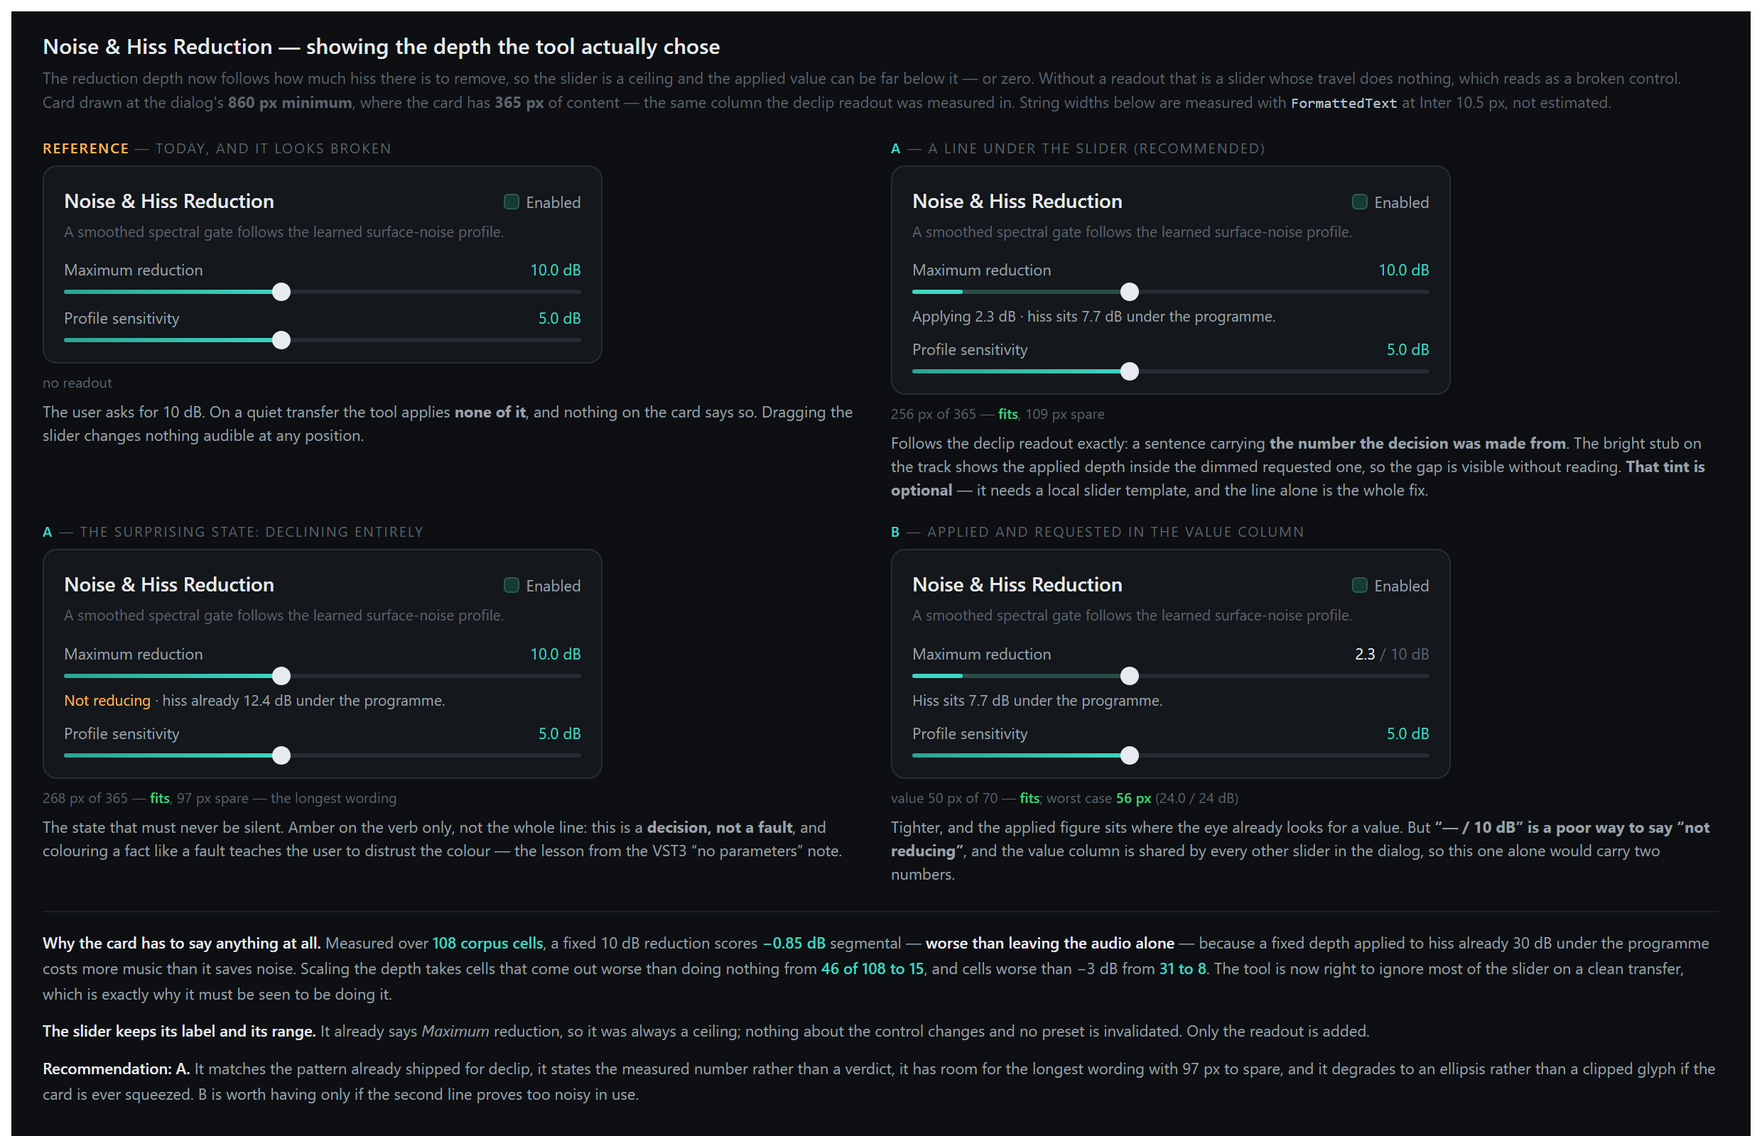
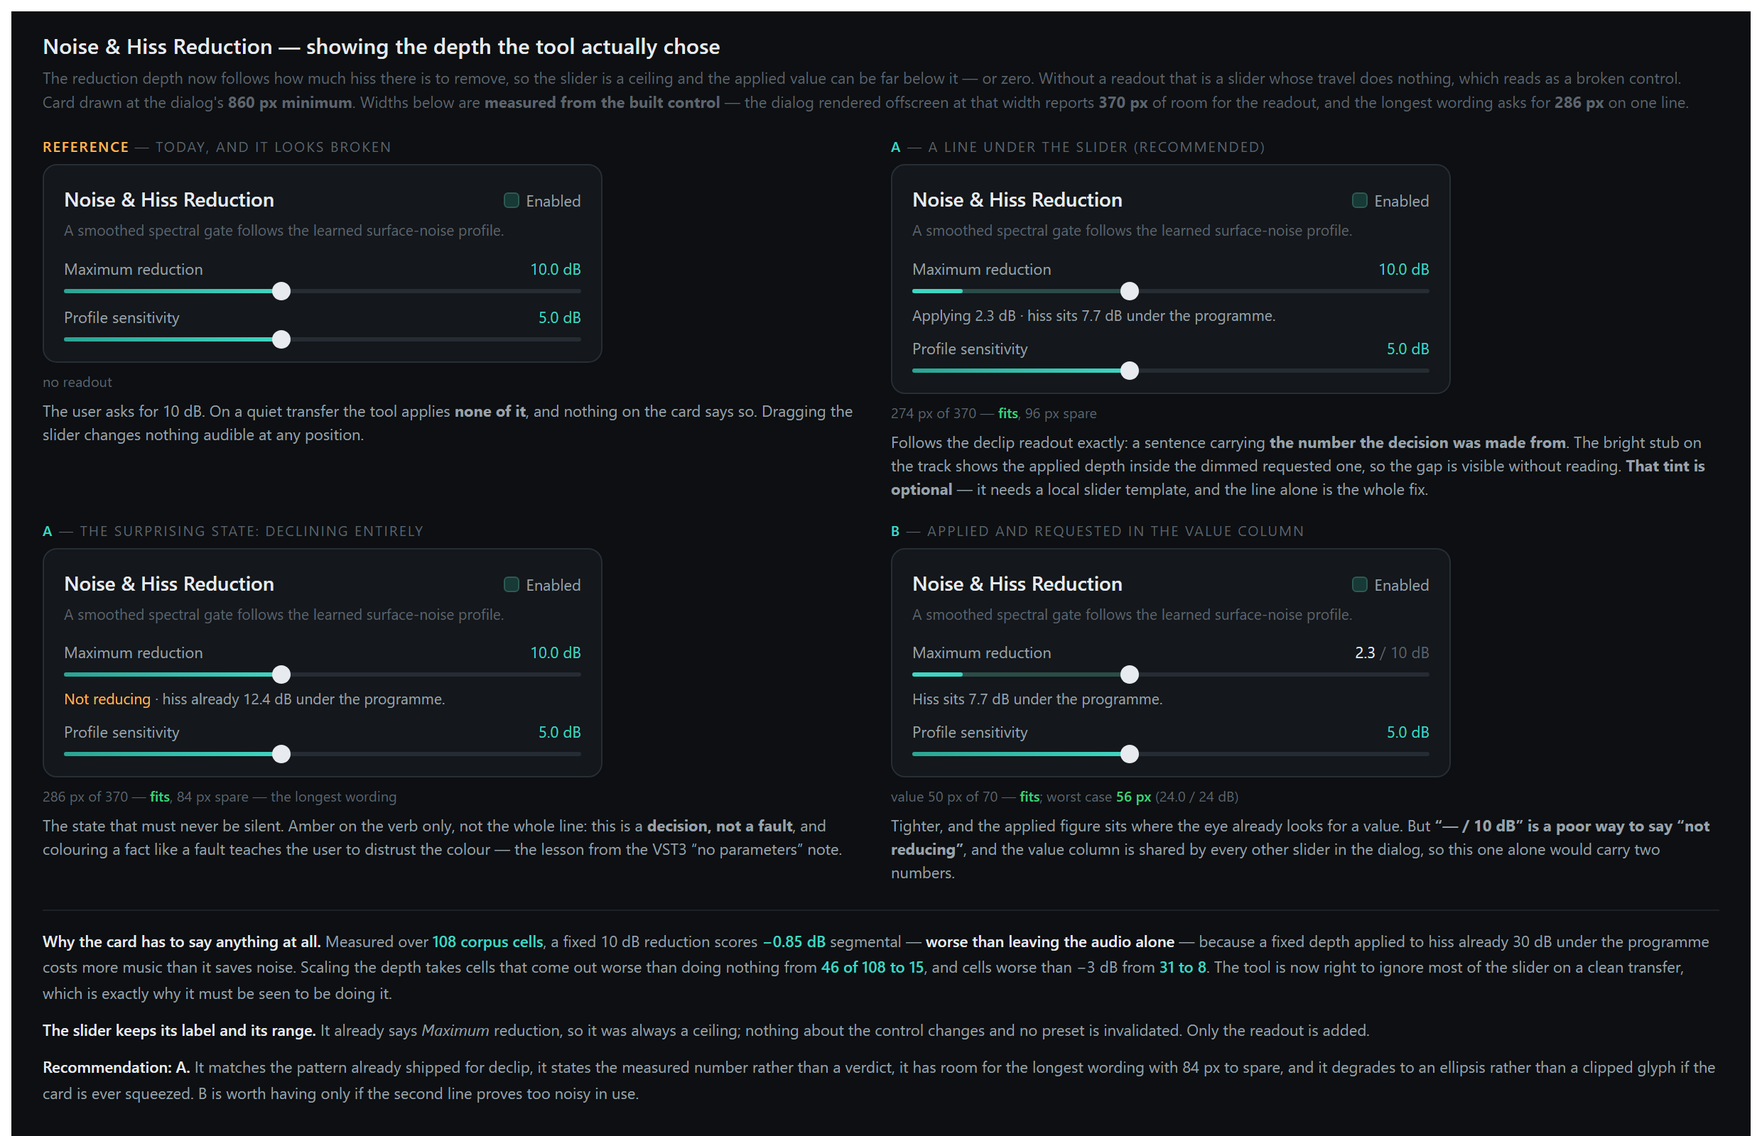
Workbench noise card: show the depth the tool actually chose (option A)
The reduction depth follows how much hiss there is to remove, so the
slider is a ceiling and the applied value can be far below it, or zero.
Without a readout that is a slider whose travel does nothing, which is
indistinguishable from a broken control.

A line under the Maximum reduction slider, following the declip readout
exactly -- a sentence carrying the number the decision was made from:

  Applying 2.3 dB · hiss sits 7.7 dB under the programme.
  Not reducing · hiss already 12.4 dB under the programme.
  Not reducing · the maximum is set to zero.
  Run analysis to see the depth. / Learn a noise profile to reduce hiss.

Amber on the verb alone, never the measured half. Declining is a
decision, not a fault, and colouring a fact like a fault is what the VST3
scanner note records as teaching users to distrust the colour.

DescribeNoiseDepth is pure, so the wording is unit-tested without a
window, the same way DescribeChoices is. The estimate is measured once
when the analysis lands rather than on every drag -- it walks the side.

Rendered before claiming the layout works. NoiseDepthRenderProbe builds
the real dialog at its 860 px minimum and measures the line in place:
370 px of room, 286 px wanted, one line, 84 px spare. The mockup had
quoted 365 and 268 from FormattedText; glyph metrics are not the built
control, so the mockup now carries the rendered figures.

That render also found a defect that is not mine and is left alone: at
[…]

diff --git a/docs/design/noise_depth_readout.html b/docs/design/noise_depth_readout.html
@@ -98,9 +98,9 @@
       The reduction depth now follows how much hiss there is to remove, so the slider is a ceiling
       and the applied value can be far below it &mdash; or zero. Without a readout that is a slider
       whose travel does nothing, which reads as a broken control.<br>
-      Card drawn at the dialog's <b>860&nbsp;px minimum</b>, where the card has <b>365&nbsp;px</b> of
-      content &mdash; the same column the declip readout was measured in. String widths below are
-      measured with <code>FormattedText</code> at Inter&nbsp;10.5&nbsp;px, not estimated.
+      Card drawn at the dialog's <b>860&nbsp;px minimum</b>. Widths below are <b>measured from the
+      built control</b> &mdash; the dialog rendered offscreen at that width reports <b>370&nbsp;px</b>
+      of room for the readout, and the longest wording asks for <b>286&nbsp;px</b> on one line.
     </p>
 
     <div class="wl-grid">
@@ -145,7 +145,7 @@
           <div class="wl-row"><span class="t">Profile sensitivity</span><span class="v">5.0 dB</span></div>
           <div class="wl-track"><i style="width:42%"></i><b style="left:42%"></b></div>
         </div>
-        <div class="wl-px">256 px of 365 &mdash; <b>fits</b>, 109 px spare</div>
+        <div class="wl-px">274 px of 370 &mdash; <b>fits</b>, 96 px spare</div>
         <div class="wl-why">
           Follows the declip readout exactly: a sentence carrying <b>the number the decision was made
           from</b>. The bright stub on the track shows the applied depth inside the
@@ -172,7 +172,7 @@
           <div class="wl-row"><span class="t">Profile sensitivity</span><span class="v">5.0 dB</span></div>
           <div class="wl-track"><i style="width:42%"></i><b style="left:42%"></b></div>
         </div>
-        <div class="wl-px">268 px of 365 &mdash; <b>fits</b>, 97 px spare &mdash; the longest wording</div>
+        <div class="wl-px">286 px of 370 &mdash; <b>fits</b>, 84 px spare &mdash; the longest wording</div>
         <div class="wl-why">
           The state that must never be silent. Amber on the verb only, not the whole line: this is a
           <b>decision, not a fault</b>, and colouring a fact like a fault teaches the user to distrust
@@ -230,7 +230,7 @@
       </p>
       <p>
         <b>Recommendation: A.</b> It matches the pattern already shipped for declip, it states the
-        measured number rather than a verdict, it has room for the longest wording with 97&nbsp;px to
+        measured number rather than a verdict, it has room for the longest wording with 84&nbsp;px to
         spare, and it degrades to an ellipsis rather than a clipped glyph if the card is ever
         squeezed. B is worth having only if the second line proves too noisy in use.
       </p>

diff --git a/src/WaveLab/Views/RestorationWorkbenchDialog.xaml b/src/WaveLab/Views/RestorationWorkbenchDialog.xaml
@@ -1,4 +1,4 @@
-<Window x:Class="WaveLab.Views.RestorationWorkbenchDialog"
+<Window x:Class="WaveLab.Views.RestorationWorkbenchDialog"
         xmlns="http://schemas.microsoft.com/winfx/2006/xaml/presentation"
         xmlns:x="http://schemas.microsoft.com/winfx/2006/xaml"
         Title="Vinyl Restoration" Width="960" Height="760" MinWidth="860" MinHeight="680"
@@ -204,6 +204,10 @@
                                 </Grid>
                                 <Slider x:Name="noiseReduction" Minimum="0" Maximum="24" Value="10"
                                         ValueChanged="OnParameterChanged"/>
+                                <TextBlock x:Name="noiseDepthText" Margin="0,8,0,0" FontSize="10.5"
+                                           Foreground="{StaticResource Muted}" TextTrimming="CharacterEllipsis">
+                                    <Run x:Name="noiseDepthLead"/><Run x:Name="noiseDepthDetail"/>
+                                </TextBlock>
                                 <Grid Margin="0,9,0,0">
                                     <Grid.ColumnDefinitions><ColumnDefinition Width="*"/><ColumnDefinition Width="70"/></Grid.ColumnDefinitions>
                                     <TextBlock Text="Profile sensitivity" Foreground="{StaticResource Muted}"/>

diff --git a/src/WaveLab/Views/RestorationWorkbenchDialog.xaml.cs b/src/WaveLab/Views/RestorationWorkbenchDialog.xaml.cs
@@ -3,6 +3,7 @@ using System.Windows;
 using System.Windows.Controls;
 using System.Windows.Controls.Primitives;
 using System.Windows.Input;
+using System.Windows.Media;
 using System.Windows.Threading;
 using WaveLab.Audio;
 using WaveLab.Audio.Dsp;
@@ -246,6 +247,7 @@ public partial class RestorationWorkbenchDialog : Window
             if (!IsCurrent(operation)) return;
             _source = prepared.Source;
             _noiseProfile = prepared.Noise.Profile;
+            _noiseToProgrammeDb = Restoration.EstimateNoiseToProgrammeDb(prepared.Source, _sampleRate);
             _clickAnalysis = prepared.Clicks;
             _clippingAnalysis = prepared.Clipping;
             _analyzedClickSensitivity = prepared.Recommendations.ClickSensitivity;
@@ -886,6 +888,85 @@ public partial class RestorationWorkbenchDialog : Window
             choices.Select(c => $"Channel {c.Channel + 1}: {MethodName(c)} — {FullDetail(c)}"));
     }
 
+
+    // ── the noise depth readout ──────────────────────────────────
+
+    /// <summary>How far the programme sits above its own floor, cached from the analysed audio.</summary>
+    /// <remarks>
+    /// The estimate depends on the audio and not on any control, so it is measured once when the
+    /// analysis lands rather than on every drag of a slider - it walks the whole side.
+    /// </remarks>
+    private double? _noiseToProgrammeDb;
+
+    /// <summary>The two halves of the readout line, so the verb can be coloured on its own.</summary>
+    /// <param name="Lead">Applied depth, or the reason nothing is being applied.</param>
+    /// <param name="Detail">The measured number the decision was made from.</param>
+    /// <param name="Declining">Whether the tool is about to leave the audio alone.</param>
+    internal readonly record struct NoiseDepthLine(string Lead, string Detail, bool Declining)
+    {
+        public override string ToString() =>
+            Detail.Length == 0 ? Lead : Lead.Length == 0 ? Detail : $"{Lead} \u00b7 {Detail}";
+    }
+
+    /// <summary>
+    /// Says how much reduction will actually be applied, and the number that decided it.
+    /// </summary>
+    /// <remarks>
+    /// <para>
+    /// <b>Without this the slider is a control whose travel does nothing.</b> The depth follows how
+    /// much hiss there is to remove, so on a clean transfer the tool is right to ignore most of the
+    /// slider - measured, a fixed depth is worse than leaving the audio alone on 46 of 108 corpus
+    /// cells and scaling it takes that to 15. A tool that is right to do nothing still has to be
+    /// seen doing it, which is the same argument as the declip readout above.
+    /// </para>
+    /// <para>
+    /// Pure, so the wording is unit-tested without a window - the declip readout is written the same
+    /// way and for the same reason.
+    /// </para>
+    /// </remarks>
+    internal static NoiseDepthLine DescribeNoiseDepth(bool analysed, bool hasProfile,
+        double requestedDb, double appliedDb, double estimateDb)
+    {
+        if (!analysed) return new NoiseDepthLine("Run analysis to see the depth.", "", false);
+        if (!hasProfile) return new NoiseDepthLine("Learn a noise profile to reduce hiss.", "", false);
+        if (requestedDb <= 0)
+            return new NoiseDepthLine("Not reducing", "the maximum is set to zero.", true);
+
+        string measured = $"hiss {(appliedDb <= 0 ? "already " : "sits ")}{estimateDb:0.0} dB under the programme.";
+        return appliedDb <= 0
+            ? new NoiseDepthLine("Not reducing", measured, true)
+            : new NoiseDepthLine($"Applying {appliedDb:0.0} dB", measured, false);
+    }
+
+    private void UpdateNoiseDepthReadout()
+    {
+        if (noiseDepthText == null) return;
+
+        bool analysed = _source != null && _noiseToProgrammeDb.HasValue;
+        bool hasProfile = _noiseProfile is { Length: > 0 };
+        double estimate = _noiseToProgrammeDb ?? 0;
+        double requested = noiseReduction.Value;
+        double applied = analysed && hasProfile
+            ? Restoration.SuggestReductionDepthDb(_source!, _sampleRate, requested)
+            : 0;
+
+        NoiseDepthLine line = DescribeNoiseDepth(analysed, hasProfile, requested, applied, estimate);
+        noiseDepthLead.Text = line.Lead;
+        noiseDepthDetail.Text = line.Detail.Length == 0 ? "" : $" \u00b7 {line.Detail}";
+
+        // Amber on the verb alone. Declining is a decision, not a fault, and colouring a whole line
+        // like a warning is what the VST3 scanner note records as teaching users to distrust the
+        // colour - so the measured half stays in the ordinary muted grey.
+        noiseDepthLead.Foreground = line.Declining
+            ? (Brush)FindResource("Amber")
+            : (Brush)FindResource("Muted");
+        noiseDepthText.ToolTip = analysed && hasProfile
+            ? $"The slider is a ceiling. Measured, a fixed depth applied to hiss already far under "
+              + $"the programme costs more music than it saves noise, so the depth follows the "
+              + $"programme-to-floor ratio \u2014 here {estimate:0.0} dB."
+            : null;
+    }
+
     private static string MethodName(DeclipChannelChoice choice) =>
         choice.Method == DeclipMethod.Sparse ? "sparse" : "peaks";
 
@@ -1123,6 +1204,7 @@ public partial class RestorationWorkbenchDialog : Window
         humHarmonicsText.Text = $"{humHarmonics.Value:0}";
         humQText.Text = $"Q {humQ.Value:0}";
         mixText.Text = $"{globalMix.Value:0}% restored";
+        UpdateNoiseDepthReadout();
     }
 
     private void QueueParameterRefresh(bool shortDelay = false)

diff --git a/tests/WaveLab.Tests/NoiseDepthReadoutTests.cs b/tests/WaveLab.Tests/NoiseDepthReadoutTests.cs
@@ -1,0 +1,105 @@
+using WaveLab.Views;
+using Xunit;
+using Xunit.Abstractions;
+
+namespace WaveLab.Tests;
+
+/// <summary>
+/// The wording of the noise card's depth readout, which is a pure function so it needs no window.
+/// </summary>
+/// <remarks>
+/// <b>The line exists because the slider is a ceiling and the applied depth can be far below it, or
+/// zero.</b> Measured over 108 corpus cells a fixed 10 dB reduction scores −0.85 dB segmental —
+/// worse than leaving the audio alone — so scaling the depth is right, and it takes cells that come
+/// out worse than doing nothing from 46 of 108 to 15. But a tool that is right to do nothing still
+/// has to be seen doing it: without this line, dragging the slider on a clean transfer changes
+/// nothing audible at any position, which is indistinguishable from a broken control.
+/// </remarks>
+public sealed class NoiseDepthReadoutTests(ITestOutputHelper output)
+{
+    private static string Line(bool analysed, bool hasProfile,
+        double requested, double applied, double estimate) =>
+        RestorationWorkbenchDialog.DescribeNoiseDepth(analysed, hasProfile, requested, applied, estimate)
+            .ToString();
+
+    [Fact]
+    public void ThePartialDepthLineCarriesBothNumbers()
+    {
+        string line = Line(analysed: true, hasProfile: true, requested: 10, applied: 2.3, estimate: 7.7);
+        output.WriteLine(line);
+
+        Assert.Equal("Applying 2.3 dB · hiss sits 7.7 dB under the programme.", line);
+    }
+
+    /// <summary>The state that must never be silent.</summary>
+    [Fact]
+    public void DecliningSaysSoAndSaysWhy()
+    {
+        var readout = RestorationWorkbenchDialog.DescribeNoiseDepth(
+            analysed: true, hasProfile: true, requestedDb: 10, appliedDb: 0, estimateDb: 12.4);
+        output.WriteLine(readout.ToString());
+
+        Assert.Equal("Not reducing · hiss already 12.4 dB under the programme.", readout.ToString());
+
+        // The verb is its own half of the line so it can be coloured alone. Colouring the measured
+        // number like a fault would teach the user to distrust the colour, which is the lesson
+        // already on record from the VST3 scanner's "no host-visible parameters" note.
+        Assert.Equal("Not reducing", readout.Lead);
+        Assert.True(readout.Declining);
+    }
+
+    /// <summary>A zero on the slider is the user's decision, and is reported as a different one.</summary>
+    [Fact]
+    public void AZeroMaximumIsNotBlamedOnTheAudio()
+    {
+        var readout = RestorationWorkbenchDialog.DescribeNoiseDepth(
+            analysed: true, hasProfile: true, requestedDb: 0, appliedDb: 0, estimateDb: 3.0);
+        output.WriteLine(readout.ToString());
+
+        Assert.Equal("Not reducing · the maximum is set to zero.", readout.ToString());
+        Assert.True(readout.Declining);
+        Assert.DoesNotContain("under the programme", readout.ToString());
+    }
+
+    [Theory]
+    [InlineData(false, true, "Run analysis to see the depth.")]
+    [InlineData(true, false, "Learn a noise profile to reduce hiss.")]
+    public void BeforeThereIsAnythingToSayItSaysWhatIsMissing(
+        bool analysed, bool hasProfile, string expected)
+    {
+        var readout = RestorationWorkbenchDialog.DescribeNoiseDepth(
+            analysed, hasProfile, requestedDb: 10, appliedDb: 0, estimateDb: 0);
+
+        Assert.Equal(expected, readout.ToString());
+        Assert.False(readout.Declining);        // nothing has been decided yet, so nothing is amber
+    }
+
+    /// <summary>
+    /// The longest wording the line can produce still fits the card, measured rather than assumed.
+    /// </summary>
+    /// <remarks>
+    /// The card has <b>365 px</b> of content at the dialog's 860 px minimum — the same column the
+    /// declip readout was measured in. Both numbers are bounded: the slider stops at 24 dB, and the
+    /// estimate is only printed below the ceiling that switches reduction off, so neither can grow
+    /// without limit. This asserts the character count as a proxy, because measuring glyphs needs a
+    /// window; the real widths were measured with <c>FormattedText</c> at Inter 10.5 px when the
+    /// mockup was drawn and the longest came to <b>268 px, leaving 97 px spare</b>.
+    /// </remarks>
+    [Fact]
+    public void TheLongestWordingIsBounded()
+    {
+        var longest = new List<string>();
+        foreach (double requested in new[] { 0.0, 1.0, 10.0, 24.0 })
+            foreach (double applied in new[] { 0.0, 2.3, 9.95, 24.0 })
+                foreach (double estimate in new[] { 0.0, 7.7, 9.99, 12.4 })
+                    longest.Add(Line(true, true, requested, applied, estimate));
+        longest.Add(Line(false, true, 10, 0, 0));
+        longest.Add(Line(true, false, 10, 0, 0));
+
+        string worst = longest.MaxBy(l => l.Length)!;
+        output.WriteLine($"{worst.Length} characters: {worst}");
+
+        // 268 px measured at Inter 10.5 px for a 55-character line, against 365 px of card.
+        Assert.True(worst.Length <= 60, $"the line grew to {worst.Length} characters: {worst}");
+    }
+}

diff --git a/tests/WaveLab.Tests/NoiseDepthRenderProbe.cs b/tests/WaveLab.Tests/NoiseDepthRenderProbe.cs
@@ -1,0 +1,80 @@
+using System.Windows.Media;
+using WaveLab.Audio;
+using WaveLab.ViewModels;
+using WaveLab.Views;
+using Xunit;
+using Xunit.Abstractions;
+
+namespace WaveLab.Tests;
+
+/// <summary>
+/// Renders the restoration workbench offscreen and measures the noise depth line in the real card.
+/// </summary>
+/// <remarks>
+/// <b>Render before claiming a layout works.</b> The mockup's widths were measured with
+/// <c>FormattedText</c>, which is the right glyph metric but not the real control: it says nothing
+/// about whether the line was given the width the card has, whether it wraps, or whether adding it
+/// pushed anything off the card. Every previous render in this repo found something no unit test
+/// could — a 38 px segment button, a footer trimmed to "…Set.", a `TextBox` with no disabled state.
+/// </remarks>
+public sealed class NoiseDepthRenderProbe(ITestOutputHelper output)
+{
+    private static AudioDocument Document()
+    {
+        var left = new float[44_100 * 3];
+        var right = new float[left.Length];
+        var random = new Random(9);
+        for (int i = 0; i < left.Length; i++)
+        {
+            float sample = (float)(0.25 * Math.Sin(2 * Math.PI * 440 * i / 44_100.0)
+                                 + (random.NextDouble() - 0.5) * 0.02);
+            left[i] = sample;
+            right[i] = sample;
+        }
+        return new AudioDocument([left, right], 44_100, 24);
+    }
+
+    [Fact]
+    public void TheDepthLineFitsTheNoiseCard()
+    {
+        Wpf.Run(() =>
+        {
+            using var main = new MainViewModel();
+            var document = new DocumentViewModel(Document());
+            var dialog = new RestorationWorkbenchDialog(document, main);
+
+            Wpf.Show(dialog, window =>
+            {
+                var workbench = (RestorationWorkbenchDialog)window;
+                workbench.Width = 860;                       // the declared minimum
+                workbench.UpdateLayout();
+                Wpf.Pump();
+
+                // The longest wording the readout can produce, put straight into the control.
+                var line = RestorationWorkbenchDialog.DescribeNoiseDepth(
+                    analysed: true, hasProfile: true, requestedDb: 10, appliedDb: 0, estimateDb: 12.4);
+                workbench.noiseDepthLead.Text = line.Lead;
+                workbench.noiseDepthDetail.Text = $" · {line.Detail}";
+                workbench.UpdateLayout();
+                Wpf.Pump();
+
+                double available = workbench.noiseDepthText.ActualWidth;
+                var wanted = workbench.noiseDepthText.DesiredSize;
+                double slider = workbench.noiseReduction.ActualWidth;
+
+                output.WriteLine($"card slider {slider:F0} px, readout given {available:F0} px, " +
+                    $"wants {wanted.Width:F0} px, {workbench.noiseDepthText.ActualHeight:F0} px tall");
+                output.WriteLine($"line: {line}");
+
+                Assert.True(available > 0, "the readout was given no width at all");
+                Assert.True(workbench.noiseDepthText.ActualHeight < 24,
+                    $"the line wrapped to {workbench.noiseDepthText.ActualHeight:F0} px");
+
+                // Room to spare, so a longer wording or a wider glyph does not immediately clip.
+                Assert.True(wanted.Width < available,
+                    $"the line wants {wanted.Width:F0} px of {available:F0} and would be trimmed");
+
+            });
+        });
+    }
+}

diff --git a/CLAUDE.md b/CLAUDE.md
@@ -496,8 +496,20 @@ and it is worth much less than the ceiling suggested — but what it is worth is
 - **`ReduceNoise` itself is untouched**, so `RestorationWolaGoldenTests` still pins what it always
   pinned; the depth is chosen by the callers. The workbench **reports the depth it chose** rather
   than applying it silently — a tool quietly ignoring most of a slider's travel is
-  indistinguishable from a broken one. A proper readout on the card is a UI change and wants a
-  mockup first.
+  indistinguishable from a broken one. The card carries a readout line under the Maximum reduction
+  slider (design: `docs/design/noise_depth_readout.png`), following the declip readout exactly:
+  “Applying 2.3 dB · hiss sits 7.7 dB under the programme”, or “**Not reducing** · hiss already
+  12.4 dB under the programme” with amber **on the verb alone** — declining is a decision, not a
+  fault, and colouring a fact like a fault is what the VST3 scanner note records as teaching users
+  to distrust the colour. `DescribeNoiseDepth` is pure, so the wording is unit-tested without a
+  window, and `NoiseDepthRenderProbe` builds the real dialog at its 860 px minimum and measures the
+  line in place: **370 px of room, 286 px wanted, one line**. The mockup originally quoted 365 and
+  268 from `FormattedText`; glyph metrics are not the built control, and the render is what the
+  numbers now come from.
+- **That render also found a defect that is not mine and is not fixed**: at the 860 px minimum the
+  **Hum Removal card cuts its description mid-word** — “without shifting stereo alignm”. It has no
+  `TextWrapping`, like the captions the rack note already records. Left alone because it is outside
+  what was asked for, and recorded here so it is not found twice.
 
 ## Gotchas
 
